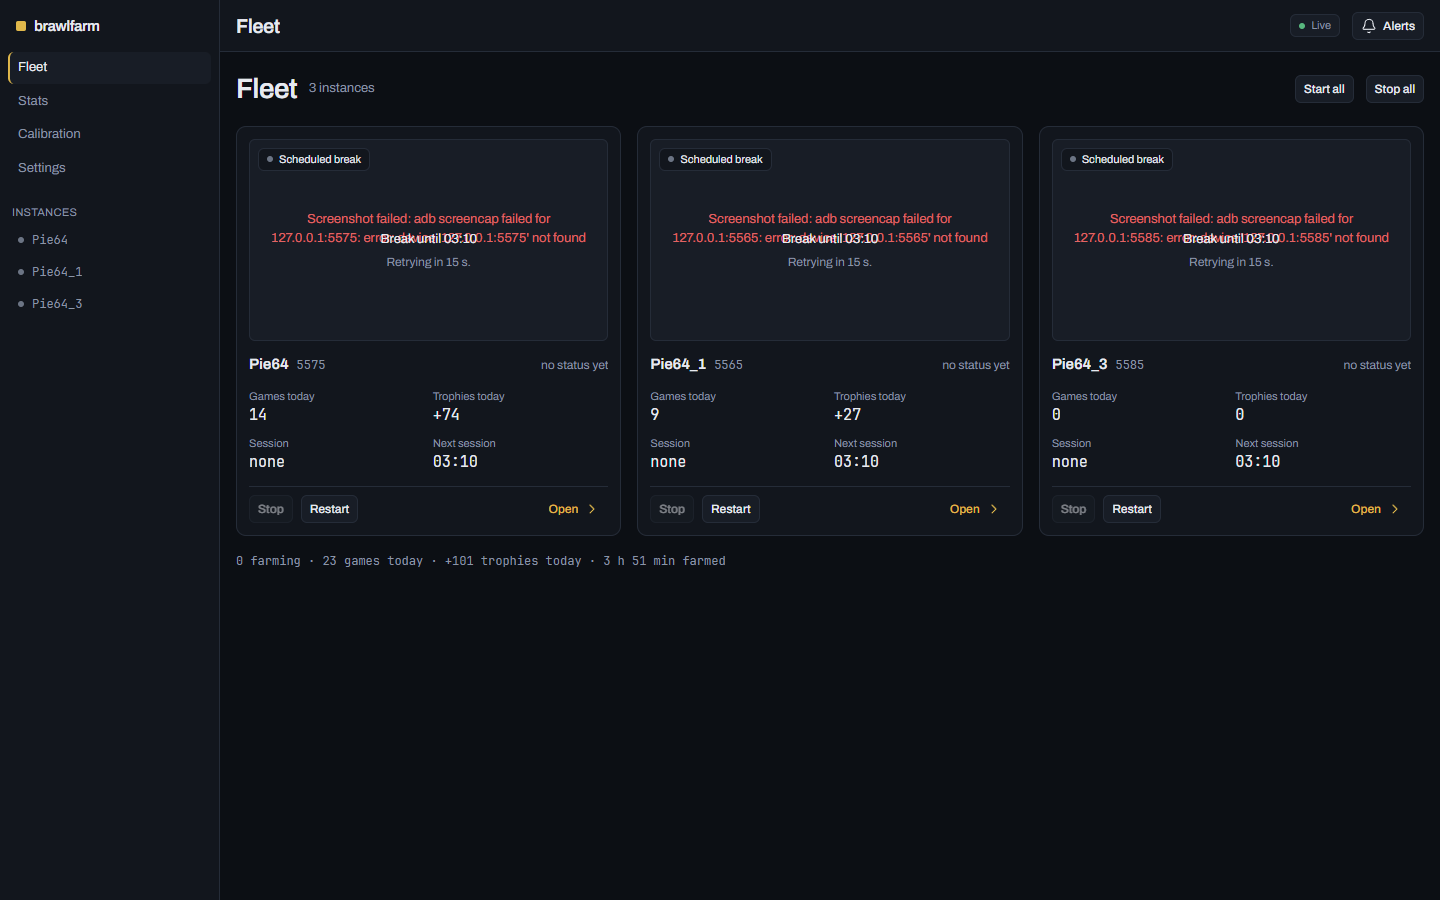
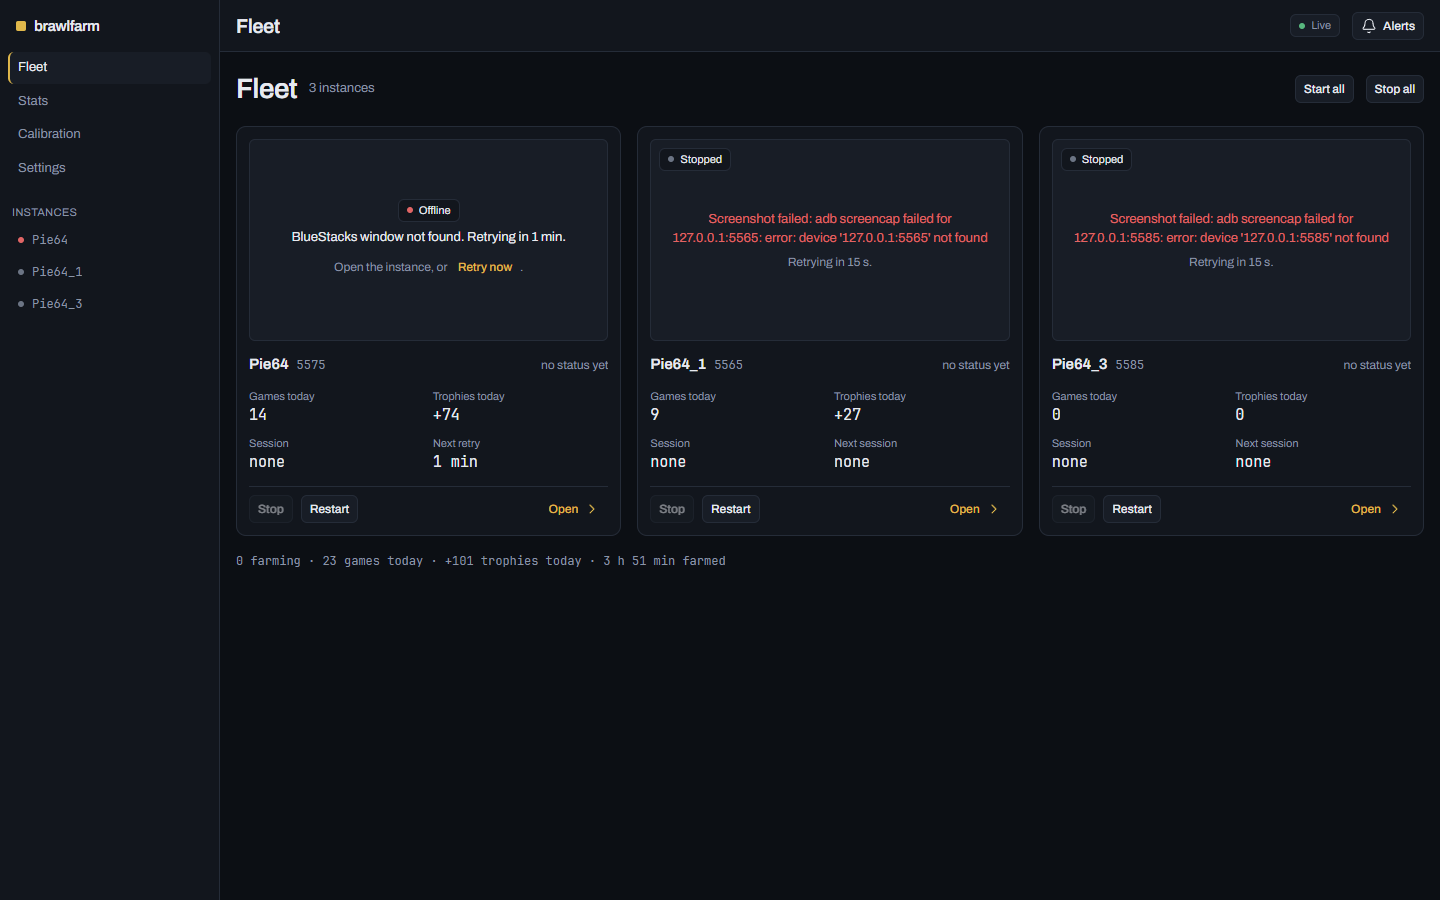
docs(readme): retake the panel screenshots
Retaken against a panel built from the overlay fix, so the Fleet cards no
longer draw two strings on top of each other. The scratch fleet now mixes
states as well: one instance offline and two stopped through the stop
control, which is closer to what the page looks like in use. The line above
the images says so.

Same scratch data directory, same fixture player tag, same four routes at
1440x900.

diff --git a/README.md b/README.md
@@ -6,7 +6,7 @@ Status: v1.0.0. Phases 1 to 7 of the plan are done; phase 8 (a calibration page,
 
 ## Screenshots
 
-The panel, running against a scratch data directory with three example instances parked on a scheduled break.
+The panel, running against a scratch data directory with three example instances: one offline, two stopped.
 
 ![The Fleet page: one card per instance with today's games and trophies](docs/img/fleet.png)
 Fleet: every instance at a glance, with start, stop and restart controls.
